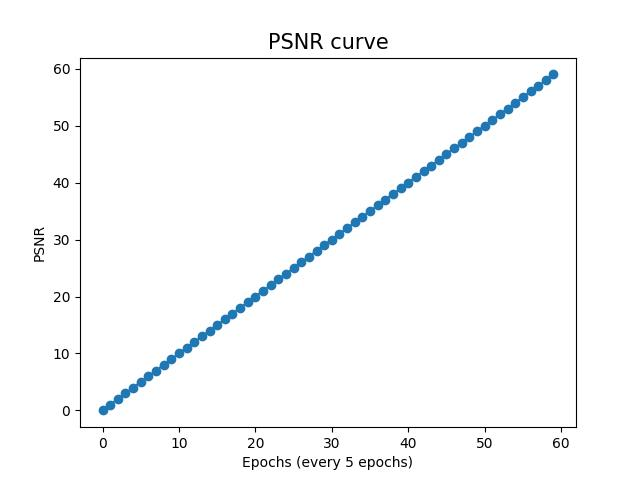
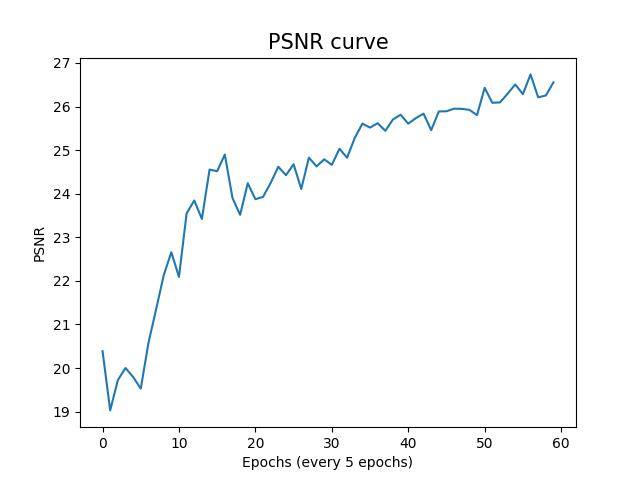
fix plot bug

diff --git a/Lab4/train_fixed_prior.py b/Lab4/train_fixed_prior.py
@@ -35,7 +35,7 @@ def parse_args():
     parser.add_argument('--data_root', default='.', help='root directory for data')
     parser.add_argument('--optimizer', default='adam', help='optimizer to train with')
     parser.add_argument('--niter', type=int, default=300, help='number of epochs to train for')
-    parser.add_argument('--epoch_size', type=int, default=300, help='epoch size')
+    parser.add_argument('--epoch_size', type=int, default=600, help='epoch size')
     parser.add_argument('--tfr', type=float, default=1.0, help='teacher forcing ratio (0 ~ 1)')
     parser.add_argument('--tfr_start_decay_epoch', type=int, default=100, help='The epoch that teacher forcing ratio become decreasing')
     parser.add_argument('--tfr_decay_step', type=float, default=(1/200), help='The decay step size of teacher forcing ratio (0 ~ 1)')

diff --git a/Lab4/utils.py b/Lab4/utils.py
@@ -269,7 +269,7 @@ def plot_PSNR(psnr, dir):
     plt.title(f"PSNR curve", fontsize=15)
     plt.xlabel(f"Epochs (every 5 epochs)")
     plt.ylabel(f"PSNR")
-    plt.plot(range(len(psnr)), marker='o')
+    plt.plot(range(len(psnr)), psnr)
     plt.savefig(os.path.join(dir, f'psnr_1.jpg'))
 
 
